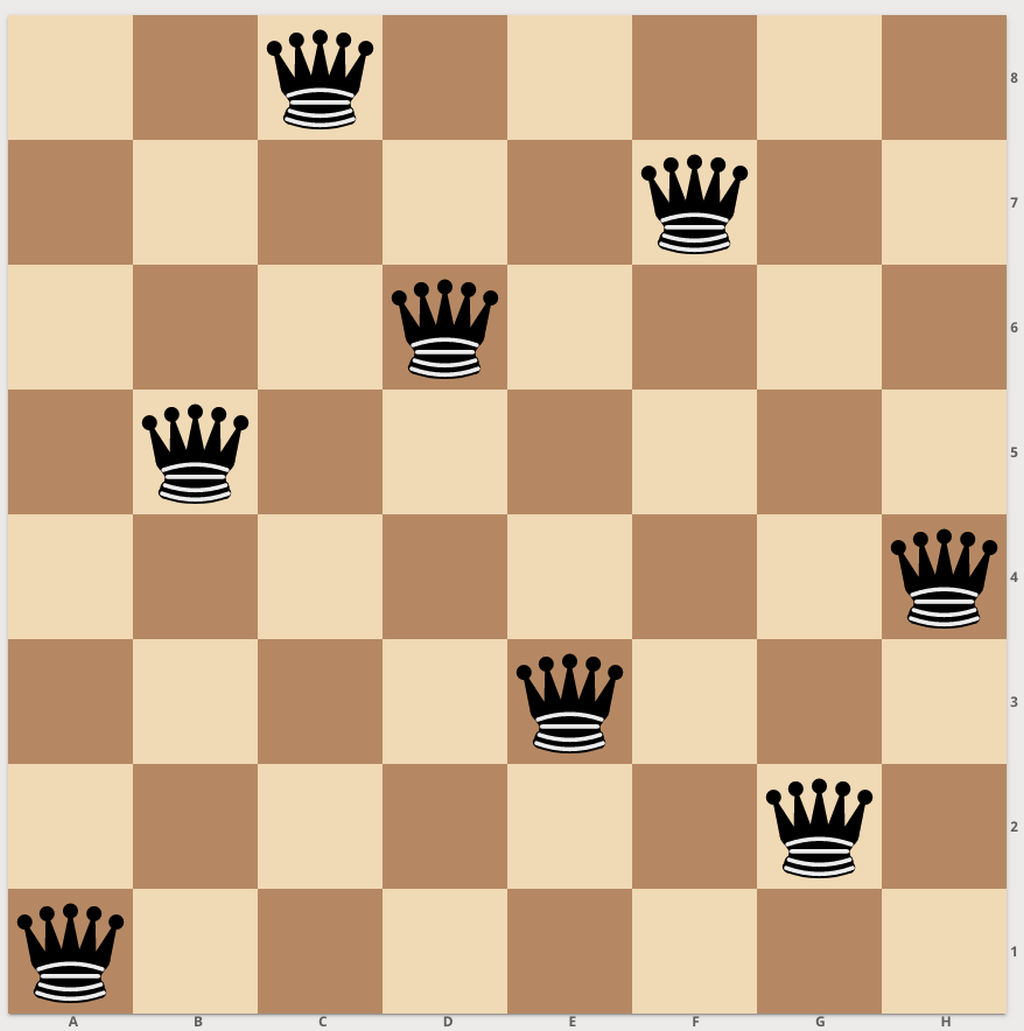
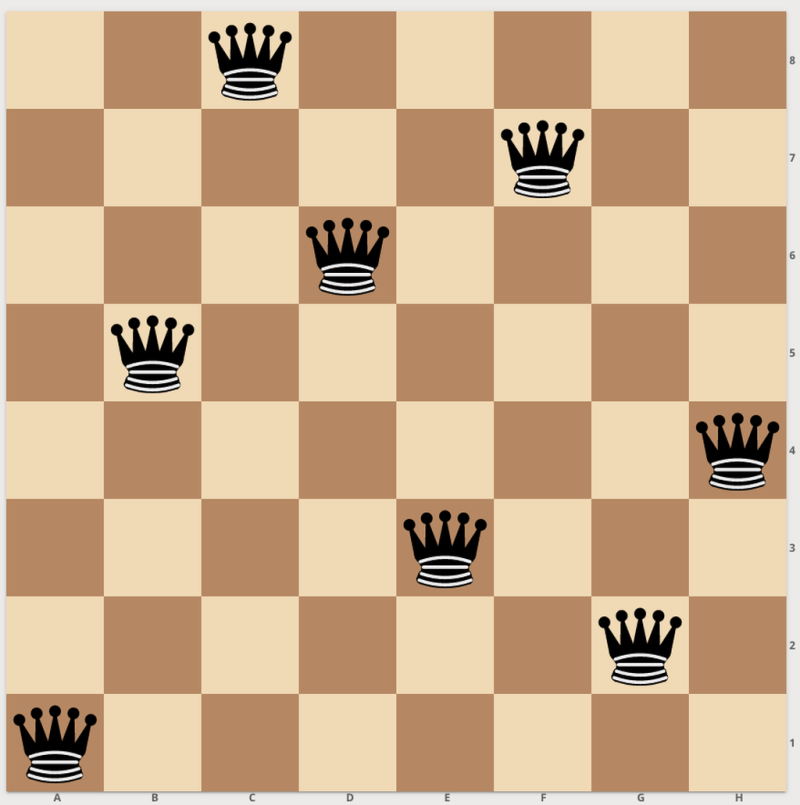
:tada:

diff --git a/README.md b/README.md
@@ -29,5 +29,5 @@ python3 nqueens.py 10 [2,8]
 <p align="center" width="85%">
 <img src="8queens.png"
      alt="8-queens solution"
-     style="float: left; padding-top:100px" />  
+     style="float: left; padding-top:200px" />  
 </p>  
